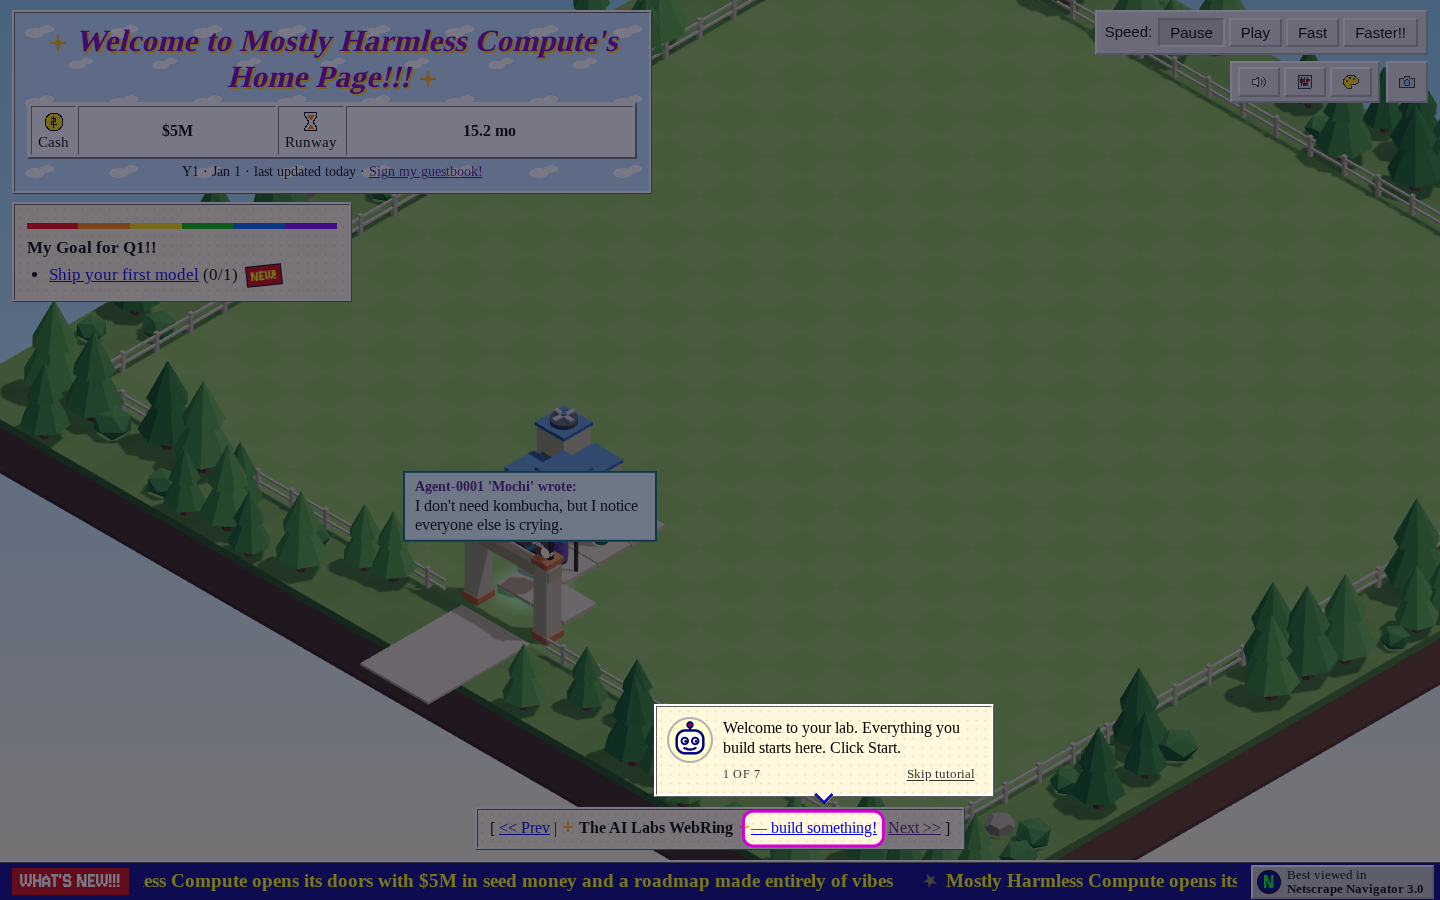
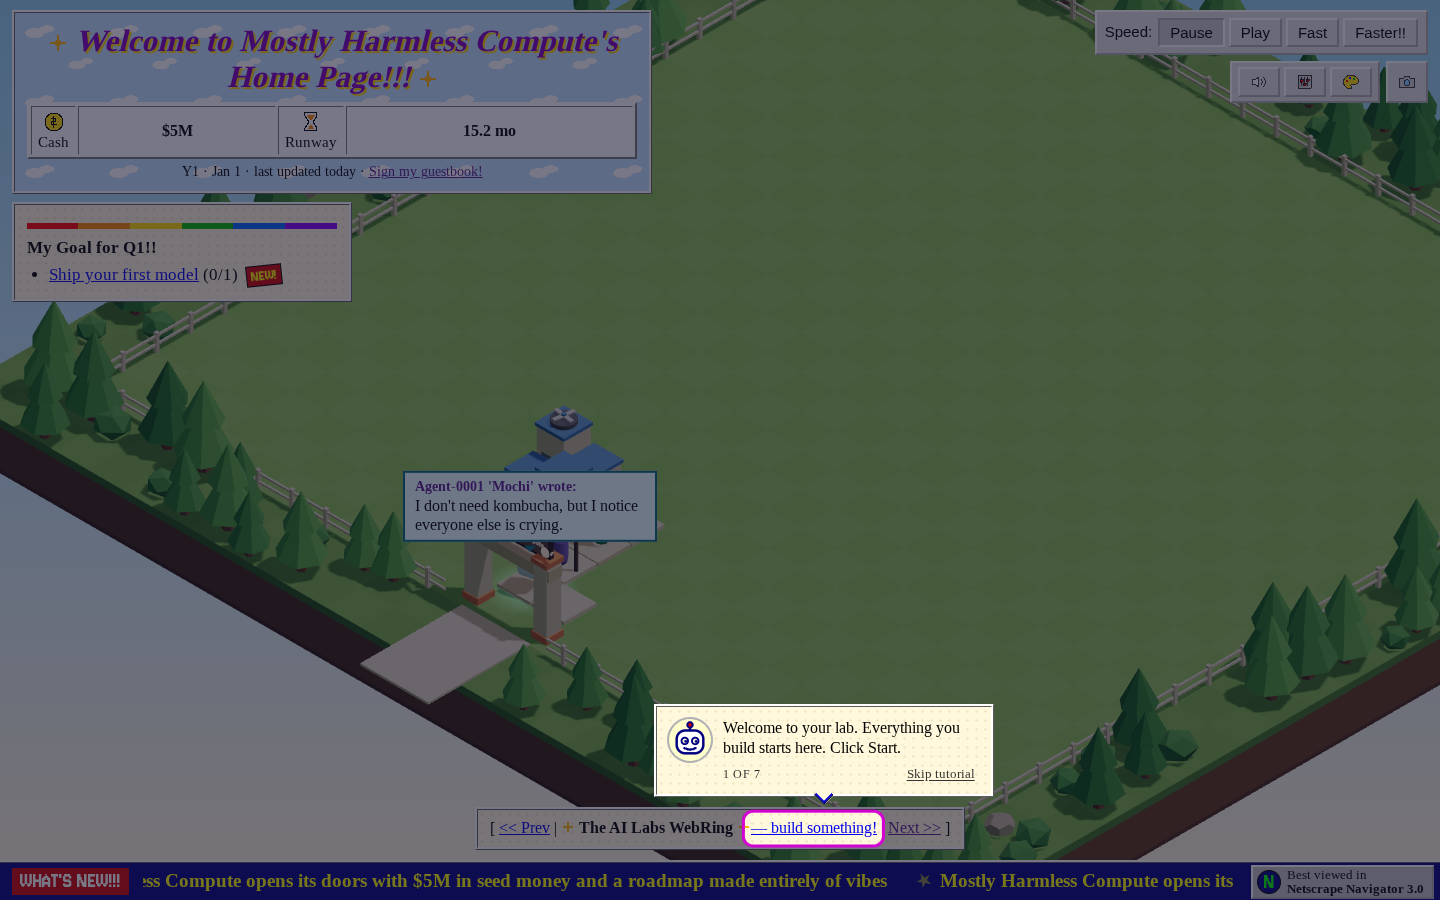
FLT-50: phone coach sits straight above its target, number keys only pick unlocked tools, one box for the one goal in Discovery Disc, WebRing link on a phone; spec and final evidence

Changed region(s): [[0.0938, 0.9644, 0.875, 0.9956]]

diff --git a/src/skins/frontier-95/messages.tsx b/src/skins/frontier-95/messages.tsx
@@ -226,11 +226,11 @@ export function Coach({ coach, anchor, panel, layout, actions }: SlotPropsMap["C
     if (b && (Math.abs(b.width - size.w) > 1 || Math.abs(b.height - size.h) > 1)) setSize({ w: b.width, h: b.height });
   }, [coach.id, layout.width, layout.height, size.w, size.h]);
   // The taskbar is 42px, and the news strip and the top windows are not to be covered either.
-  const place = layout.compact ? null : placeBalloon(anchor, size, { w: layout.width, h: layout.height }, { gap: 18, panel, margin: { top: 12, bottom: 52, left: 10, right: 10 } });
-  // On a phone the balloon docks away from its target: at the bottom only for something in the top of the screen.
-  const dock = anchor && anchor.y < layout.height * 0.3 ? "bottom" : "top";
+  const view = { w: layout.width, h: layout.height };
+  // On a phone it spans the screen, straight above the target (or below it, for something at the top).
+  const place = layout.compact ? placeBalloon(anchor, size, view, { gap: 12, panel, prefer: ["top", "bottom"], margin: { top: 52, bottom: 8, left: 4, right: 4 } }) : placeBalloon(anchor, size, view, { gap: 18, panel, margin: { top: 12, bottom: 52, left: 10, right: 10 } });
   return (
-    <div key={coach.id} ref={ref} className={`f95-coach ${layout.compact ? `docked dock-${dock}` : ""}`} style={place ? { left: place.x, top: place.y } : undefined} role="status" aria-live="polite" aria-label={t("assistant.title")}>
+    <div key={coach.id} ref={ref} className={`f95-coach ${layout.compact ? "docked" : ""}`} style={layout.compact ? { top: place.y } : { left: place.x, top: place.y }} role="status" aria-live="polite" aria-label={t("assistant.title")}>
       <div className="f95-balloon">
         <p className="f95-saying">{coach.text}</p>
         <div className="f95-coachfoot">

diff --git a/src/skins/base/slots/Coach.tsx b/src/skins/base/slots/Coach.tsx
@@ -32,15 +32,14 @@ export function Coach({ coach, anchor, panel, layout, actions }: SlotPropsMap["C
     const b = ref.current?.getBoundingClientRect();
     if (b && (Math.abs(b.width - size.w) > 1 || Math.abs(b.height - size.h) > 1)) setSize({ w: b.width, h: b.height });
   }, [coach.id, layout.width, layout.height, size.w, size.h]);
-  const place = layout.compact ? null : placeBalloon(anchor, size, { w: layout.width, h: layout.height }, { gap: 20, panel, margin: { top: 76, bottom: 48, left: 12, right: 12 } });
-  // On a phone the balloon docks away from its target: at the bottom only for something in the top of the screen.
-  const dock = anchor && anchor.y < layout.height * 0.3 ? "bottom" : "top";
+  const view = { w: layout.width, h: layout.height };
+  const place = layout.compact ? placeBalloon(anchor, size, view, { gap: 12, panel, prefer: ["top", "bottom"], margin: { top: 56, bottom: 8, left: 8, right: 8 } }) : placeBalloon(anchor, size, view, { gap: 20, panel, margin: { top: 76, bottom: 48, left: 12, right: 12 } });
   return (
     <aside
       key={coach.id}
       ref={ref}
-      className={`coach panel ${layout.compact ? `docked dock-${dock}` : ""} ${place ? `side-${place.side}` : ""}`}
-      style={place ? { left: place.x, top: place.y } : undefined}
+      className={`coach panel ${layout.compact ? "docked" : ""} ${place ? `side-${place.side}` : ""}`}
+      style={layout.compact ? { top: place.y } : { left: place.x, top: place.y }}
       role="status"
       aria-live="polite"
       aria-label={t("assistant.title")}

diff --git a/src/ui/hud/useHudEffects.ts b/src/ui/hud/useHudEffects.ts
@@ -23,6 +23,9 @@ const desk = new NewsDesk();
 /** Build hotkeys (1-9, Space, Esc), and the keys that answer whichever card is up. */
 function useHotkeys(vm: HudVM) {
   const eraOpenedAt = useRef(0);
+  // Only the tools the lab has unlocked answer a number key (the build panel lists exactly these).
+  const earned = useRef<ReadonlySet<string>>(new Set());
+  earned.current = new Set(vm.buildItems.map((b) => b.kind));
   const eraN = vm.eraCard?.n ?? null;
   useEffect(() => {
     if (eraN !== null) eraOpenedAt.current = performance.now();
@@ -56,7 +59,10 @@ function useHotkeys(vm: HudVM) {
         (document.activeElement as HTMLElement | null)?.blur?.();
         send({ type: "TOGGLE_PAUSE" });
       } else if (e.key === "Escape") send({ type: "SET_TOOL", tool: null });
-      else if (/^[1-9]$/.test(e.key)) send({ type: "SET_TOOL", tool: TOOLS[Number(e.key) - 1]! });
+      else if (/^[1-9]$/.test(e.key)) {
+        const tool = TOOLS[Number(e.key) - 1]!;
+        if (earned.current.has(tool)) send({ type: "SET_TOOL", tool });
+      }
     };
     window.addEventListener("keydown", onKey);
     return () => window.removeEventListener("keydown", onKey);

diff --git a/src/skins/homepage-98/skin.css b/src/skins/homepage-98/skin.css
@@ -1785,9 +1785,29 @@
     }
     .gc-nav {
       display: contents;
-      .br,
-      .mid {
+      .br {
         display: none;
+      }
+      /* Between the two arrows: the link that opens the ring (the coach's first target). The rest of the line has no room. */
+      .mid {
+        grid-column: 2;
+        grid-row: 1;
+        display: flex;
+        justify-content: center;
+        font-size: 0;
+        .gc-ringname {
+          display: none;
+        }
+        .gc-build {
+          font-size: 16px;
+          padding: 10px 12px;
+          border: 2px outset #fff;
+          background: #e0e0e0;
+          text-decoration: none;
+          color: #000080;
+          font-weight: 700;
+          text-align: center;
+        }
       }
       .prev,
       .next {

diff --git a/src/skins/discovery-disc-96/chart.tsx b/src/skins/discovery-disc-96/chart.tsx
@@ -56,12 +56,11 @@ export function Objectives({ objectives, progress, visible = ALL_VISIBLE, layout
     // The one goal in front of you: a single star, until the race brings the chart.
     return (
       <section className="dd-goals dd-goal-one open" {...coach.attrs("goals")} role="status">
-        <div className="dd-goals-head">
-          <StarIcon on={false} size={26} />
-          <h4>{t("objectives.goal")}</h4>
-        </div>
         <div className="dd-goal-body">
           <div className="dd-goal-text">
+            <small>
+              <StarIcon on={false} size={20} /> {t("objectives.goal")}
+            </small>
             <b>{goal.line}</b>
             <StripeBar value={goal.ratio} label={goal.text} />
           </div>

diff --git a/src/skins/discovery-disc-96/skin.css b/src/skins/discovery-disc-96/skin.css
@@ -1184,6 +1184,22 @@
     background-position: 0 0, 13px 19px;
     box-shadow: 5px 5px 0 var(--dd-ink);
   }
+  .dd-goal-one .dd-goal-text {
+    display: grid;
+    gap: 4px;
+    small {
+      display: flex;
+      align-items: center;
+      gap: 6px;
+      font-family: var(--dd-display);
+      font-size: 15px;
+      letter-spacing: 0.04em;
+      text-transform: uppercase;
+    }
+    b {
+      font-size: 17px;
+    }
+  }
   .dd-tray.closed {
     padding: 8px 14px;
     .dd-tray-label {

diff --git a/src/skins/frontier-95/skin.css b/src/skins/frontier-95/skin.css
@@ -1468,12 +1468,6 @@
         width: auto;
         min-width: 0;
       }
-      &.dock-bottom {
-        bottom: calc(var(--taskbar) + 30px + 52px);
-      }
-      &.dock-top {
-        top: 52px;
-      }
     }
   }
 

diff --git a/src/skins/base/playable.css b/src/skins/base/playable.css
@@ -431,12 +431,6 @@
     right: 8px;
     width: auto;
   }
-  .coach.docked.dock-bottom {
-    bottom: 132px;
-  }
-  .coach.docked.dock-top {
-    top: 96px;
-  }
   .coach.docked::after {
     display: none;
   }

diff --git a/docs/specs/FLT-50.md b/docs/specs/FLT-50.md
@@ -1,0 +1,48 @@
+# FLT-50: Playable v1 UI: coach marks (paperclip), Start build panel + teasers, New! cards, hidden HUD, Help ▸ How to play
+
+**Playable v1: UI** (Sonnet 5.5). The parent is FLT-47. Read the plan comment on FLT-47 (the mockups are attached there) and **the contract below**. Branch from `origin/flt-47-playable` (it contains your FLT-29 work) and open the PR into `flt-47-playable`.
+
+1. **Coach marks:**
+   - A dimmed overlay with a spotlight on `[data-coach="<coach.target>"]`, plus the balloon with the approved line, "N of 7" and **Skip tutorial**.
+   - This goes through a new `Coach` slot: the **paperclip** in Frontier 95, the base balloon in other skins.
+   - No Continue button except on `timer` lines (optional "Got it").
+   - **Replace** FLT-29's old tutorial UI (the Next buttons).
+   - Start ▸ Help ▸ **Replay tutorial**.
+2. **Build panel:** building choices live in a panel you open (the Start menu in Frontier 95, and a single "Build" button plus panel in the base skin). Show **only unlocked items**, then **locked teasers** ("🔒 ??? · ship your first model") from `progress.teasers`. Every item carries `data-coach="build:<kind>"`.
+3. **"New!" unlock cards** from `unlockCard`: small and celebratory, RCT news-style (Frontier 95: a message box "New items available!" listing the items). `dismissUnlock` closes it.
+4. **Hide HUD windows until unlocked** using `hud.visible` (Arena, AI R&D, Thoughts, News Room, Staff, papers, disasters, events). Level 1 shows only cash, runway, date, speed, the training bar (once running), goals and the ticker.
+5. **Goals:** a single clear line from `progress.goal` ("Ship your first model · 0/1"), with `data-coach="goals"`.
+6. **Help ▸ How to play:** one window (Frontier 95 Win95 Help; the base skin's own), covering the loop in 5 bullets, one line per unlocked building, and what cash/runway/Vibes/hype mean. Plain, warm copy with no jokes in instructions (the jokes live in the world). Put the text in `content/help.ts`.
+7. **Every skin needs `data-coach` hooks.** Add them to the merged ported skins' custom slots (Discovery Disc '96, Homepage '98). The Swag Drop, Karaoke Night and Field Almanac port builders are adding them in their own PRs.
+8. **Evidence:** `pnpm shots` before/after of steps 1–5 in Frontier 95 plus the base skin, and phone. Follow the mockups on FLT-47.
+## Playable v1: the shared contract (FLT-49 logic ↔ FLT-50 UI)
+
+**Branches:** both builders branch from **`origin/flt-47-playable`** and open PRs **into `flt-47-playable`** (not `main`). The lead merges them there. PR #37 (`flt-47-playable` → `main`) is the preview Jem plays, and **it must not merge until the stranger test passes on its preview and Jem OKs it.**
+
+**Approved by Jem:** the ladder and the 7 coach lines in the plan comment on FLT-47. **Level 1 starts with a Compute Cluster pre-built; the player builds the Path and the Training Hall.** Use the copy exactly as approved (in `content/coach.ts`). Don't edit wording without the lead.
+
+### Snapshot / HUD view-model additions (logic produces, UI consumes)
+```ts
+progress: {
+  level: 1|2|3|4|5, levelName: string,            // "Garage", "Open for business", "Growing team", "The Race", "Scrutiny"
+  unlocked: { buildings: BuildingKind[], staff: StaffJob[], systems: SystemId[] },
+  goal: { text: string, current: number, target: number },   // e.g. "Ship your first model", 0, 1
+  teasers: { label: string, hint: string }[],     // locked items for the build panel: "???", "ship your first model"
+}
+coach: {                                          // null when there's no active coach mark / skipped / finished
+  id: string, step: number, of: number, text: string,  // the approved line
+  target: CoachTarget,                            // DOM: [data-coach="<target>"]; map targets below
+  waitFor: "action" | "timer", canSkip: true,
+  suggest?: { kind: "path", tiles: [x,z][] } | { kind: "building", building: BuildingKind, x: number, z: number },
+} | null
+unlockCard: { id: string, title: string, body: string, items: string[] } | null   // the "New!" card
+hud: { visible: Record<HudPanel, boolean> }       // HudPanel = "revenue"|"vibes"|"arena"|"rnd"|"thoughts"|"news"|"staff"|"events"|"papers"|"disasters"
+```
+- **Commands:** `coachSkip`, `coachReplay`, `dismissUnlock`.
+- **CoachTarget ids:** `start` (build panel button), `build:path`, `build:hall`, `training`, `build:gateway`, `stat:runway`, `goals`, plus `map:suggest` (the 3D ghost suggestion).
+- **Time:** the game starts paused at 1×. The first build click starts it. **Coach marks never pause time.** `waitFor: "timer"` lines auto-advance after about 6 s of game-visible time or on any click.
+
+### Hooks for the stranger test (both builders)
+- Every coach target element carries `data-coach="<id>"`, and the active one also has `data-coach-active`. This applies in **every skin** (base, Frontier 95, and every ported skin's custom slots).
+- The 3D ghost suggestion renders DOM anchors at each suggested tile's projected screen position: `[data-coach-tile="x,z"]` (clickable, which places the suggested thing).
+- A **read-only** probe, `window.__fltProbe()`, returns `{date, day, paused, speed, walkers:[{id,kind,x,z,mode}], gate:{x,z}, coachId}`. It's always present, has no side effects, and needs no URL param.

diff --git a/docs/evidence/FLT-50/discovery-disc-96/report.md b/docs/evidence/FLT-50/discovery-disc-96/report.md
@@ -1,10 +1,10 @@
 
-| Scene | Before (`main` @ deb7d60) | After (`flt-50-playable-ui` @ 8bba4a0+) |
-|---|---|---|
-| **coach-start** (discovery-disc-96)<br>93.3% px differ | ![coach-start@discovery-disc-96](https://github.com/jem-computer/frontier-lab-tycoon/blob/flt-50-playable-ui/docs/evidence/FLT-50/discovery-disc-96/before/coach-start@discovery-disc-96.png?raw=true) | ![coach-start@discovery-disc-96](https://github.com/jem-computer/frontier-lab-tycoon/blob/flt-50-playable-ui/docs/evidence/FLT-50/discovery-disc-96/after/coach-start@discovery-disc-96.png?raw=true) |
-| **coach-path** (discovery-disc-96)<br>93.1% px differ | ![coach-path@discovery-disc-96](https://github.com/jem-computer/frontier-lab-tycoon/blob/flt-50-playable-ui/docs/evidence/FLT-50/discovery-disc-96/before/coach-path@discovery-disc-96.png?raw=true) | ![coach-path@discovery-disc-96](https://github.com/jem-computer/frontier-lab-tycoon/blob/flt-50-playable-ui/docs/evidence/FLT-50/discovery-disc-96/after/coach-path@discovery-disc-96.png?raw=true) |
-| **coach-hall** (discovery-disc-96)<br>93.6% px differ | ![coach-hall@discovery-disc-96](https://github.com/jem-computer/frontier-lab-tycoon/blob/flt-50-playable-ui/docs/evidence/FLT-50/discovery-disc-96/before/coach-hall@discovery-disc-96.png?raw=true) | ![coach-hall@discovery-disc-96](https://github.com/jem-computer/frontier-lab-tycoon/blob/flt-50-playable-ui/docs/evidence/FLT-50/discovery-disc-96/after/coach-hall@discovery-disc-96.png?raw=true) |
-| **level-3** (discovery-disc-96)<br>34.2% px differ | ![level-3@discovery-disc-96](https://github.com/jem-computer/frontier-lab-tycoon/blob/flt-50-playable-ui/docs/evidence/FLT-50/discovery-disc-96/before/level-3@discovery-disc-96.png?raw=true) | ![level-3@discovery-disc-96](https://github.com/jem-computer/frontier-lab-tycoon/blob/flt-50-playable-ui/docs/evidence/FLT-50/discovery-disc-96/after/level-3@discovery-disc-96.png?raw=true) |
-| **phone-start** (discovery-disc-96)<br>86.4% px differ | ![phone-start@discovery-disc-96](https://github.com/jem-computer/frontier-lab-tycoon/blob/flt-50-playable-ui/docs/evidence/FLT-50/discovery-disc-96/before/phone-start@discovery-disc-96.png?raw=true) | ![phone-start@discovery-disc-96](https://github.com/jem-computer/frontier-lab-tycoon/blob/flt-50-playable-ui/docs/evidence/FLT-50/discovery-disc-96/after/phone-start@discovery-disc-96.png?raw=true) |
+| Scene | After (`flt-50-playable-ui` @ 54fd5fa+) |
+|---|---|
+| **coach-start** (discovery-disc-96) | ![coach-start@discovery-disc-96](https://github.com/jem-computer/frontier-lab-tycoon/blob/flt-50-playable-ui/docs/evidence/FLT-50/discovery-disc-96/after/coach-start@discovery-disc-96.png?raw=true) |
+| **coach-path** (discovery-disc-96) | ![coach-path@discovery-disc-96](https://github.com/jem-computer/frontier-lab-tycoon/blob/flt-50-playable-ui/docs/evidence/FLT-50/discovery-disc-96/after/coach-path@discovery-disc-96.png?raw=true) |
+| **level-3** (discovery-disc-96) | ![level-3@discovery-disc-96](https://github.com/jem-computer/frontier-lab-tycoon/blob/flt-50-playable-ui/docs/evidence/FLT-50/discovery-disc-96/after/level-3@discovery-disc-96.png?raw=true) |
+| **phone-start** (discovery-disc-96) | ![phone-start@discovery-disc-96](https://github.com/jem-computer/frontier-lab-tycoon/blob/flt-50-playable-ui/docs/evidence/FLT-50/discovery-disc-96/after/phone-start@discovery-disc-96.png?raw=true) |
+| **phone-path** (discovery-disc-96) | ![phone-path@discovery-disc-96](https://github.com/jem-computer/frontier-lab-tycoon/blob/flt-50-playable-ui/docs/evidence/FLT-50/discovery-disc-96/after/phone-path@discovery-disc-96.png?raw=true) |
 
-_pnpm shots: 5 scene(s), 1 skin(s) in 103.8s (10/10 captures ok)._
+_pnpm shots: 5 scene(s), 1 skin(s) in 48.0s (5/5 captures ok)._

diff --git a/docs/evidence/FLT-50/homepage-98/report.md b/docs/evidence/FLT-50/homepage-98/report.md
@@ -1,10 +1,10 @@
 
-| Scene | Before (`main` @ deb7d60) | After (`flt-50-playable-ui` @ 8bba4a0+) |
-|---|---|---|
-| **coach-start** (homepage-98)<br>96.7% px differ | ![coach-start@homepage-98](https://github.com/jem-computer/frontier-lab-tycoon/blob/flt-50-playable-ui/docs/evidence/FLT-50/homepage-98/before/coach-start@homepage-98.png?raw=true) | ![coach-start@homepage-98](https://github.com/jem-computer/frontier-lab-tycoon/blob/flt-50-playable-ui/docs/evidence/FLT-50/homepage-98/after/coach-start@homepage-98.png?raw=true) |
-| **coach-path** (homepage-98)<br>96.4% px differ | ![coach-path@homepage-98](https://github.com/jem-computer/frontier-lab-tycoon/blob/flt-50-playable-ui/docs/evidence/FLT-50/homepage-98/before/coach-path@homepage-98.png?raw=true) | ![coach-path@homepage-98](https://github.com/jem-computer/frontier-lab-tycoon/blob/flt-50-playable-ui/docs/evidence/FLT-50/homepage-98/after/coach-path@homepage-98.png?raw=true) |
-| **coach-hall** (homepage-98)<br>97.6% px differ | ![coach-hall@homepage-98](https://github.com/jem-computer/frontier-lab-tycoon/blob/flt-50-playable-ui/docs/evidence/FLT-50/homepage-98/before/coach-hall@homepage-98.png?raw=true) | ![coach-hall@homepage-98](https://github.com/jem-computer/frontier-lab-tycoon/blob/flt-50-playable-ui/docs/evidence/FLT-50/homepage-98/after/coach-hall@homepage-98.png?raw=true) |
-| **level-3** (homepage-98)<br>43.2% px differ | ![level-3@homepage-98](https://github.com/jem-computer/frontier-lab-tycoon/blob/flt-50-playable-ui/docs/evidence/FLT-50/homepage-98/before/level-3@homepage-98.png?raw=true) | ![level-3@homepage-98](https://github.com/jem-computer/frontier-lab-tycoon/blob/flt-50-playable-ui/docs/evidence/FLT-50/homepage-98/after/level-3@homepage-98.png?raw=true) |
-| **phone-start** (homepage-98)<br>45.7% px differ | ![phone-start@homepage-98](https://github.com/jem-computer/frontier-lab-tycoon/blob/flt-50-playable-ui/docs/evidence/FLT-50/homepage-98/before/phone-start@homepage-98.png?raw=true) | ![phone-start@homepage-98](https://github.com/jem-computer/frontier-lab-tycoon/blob/flt-50-playable-ui/docs/evidence/FLT-50/homepage-98/after/phone-start@homepage-98.png?raw=true) |
+| Scene | After (`flt-50-playable-ui` @ 54fd5fa+) |
+|---|---|
+| **coach-start** (homepage-98) | ![coach-start@homepage-98](https://github.com/jem-computer/frontier-lab-tycoon/blob/flt-50-playable-ui/docs/evidence/FLT-50/homepage-98/after/coach-start@homepage-98.png?raw=true) |
+| **coach-path** (homepage-98) | ![coach-path@homepage-98](https://github.com/jem-computer/frontier-lab-tycoon/blob/flt-50-playable-ui/docs/evidence/FLT-50/homepage-98/after/coach-path@homepage-98.png?raw=true) |
+| **level-3** (homepage-98) | ![level-3@homepage-98](https://github.com/jem-computer/frontier-lab-tycoon/blob/flt-50-playable-ui/docs/evidence/FLT-50/homepage-98/after/level-3@homepage-98.png?raw=true) |
+| **phone-start** (homepage-98) | ![phone-start@homepage-98](https://github.com/jem-computer/frontier-lab-tycoon/blob/flt-50-playable-ui/docs/evidence/FLT-50/homepage-98/after/phone-start@homepage-98.png?raw=true) |
+| **phone-path** (homepage-98) | ![phone-path@homepage-98](https://github.com/jem-computer/frontier-lab-tycoon/blob/flt-50-playable-ui/docs/evidence/FLT-50/homepage-98/after/phone-path@homepage-98.png?raw=true) |
 
-_pnpm shots: 5 scene(s), 1 skin(s) in 90.1s (10/10 captures ok)._
+_pnpm shots: 5 scene(s), 1 skin(s) in 46.0s (5/5 captures ok)._

diff --git a/docs/evidence/FLT-50/frontier-95-phone/report.md b/docs/evidence/FLT-50/frontier-95-phone/report.md
@@ -1,7 +1,7 @@
 
-| Scene | Before (`main` @ deb7d60) | After (`flt-50-playable-ui` @ 8bba4a0+) |
+| Scene | Before (`main` @ deb7d60) | After (`flt-50-playable-ui` @ 54fd5fa+) |
 |---|---|---|
-| **phone-start** (frontier-95)<br>95.2% px differ | ![phone-start@frontier-95](https://github.com/jem-computer/frontier-lab-tycoon/blob/flt-50-playable-ui/docs/evidence/FLT-50/frontier-95-phone/before/phone-start@frontier-95.png?raw=true) | ![phone-start@frontier-95](https://github.com/jem-computer/frontier-lab-tycoon/blob/flt-50-playable-ui/docs/evidence/FLT-50/frontier-95-phone/after/phone-start@frontier-95.png?raw=true) |
-| **phone-path** (frontier-95)<br>92.0% px differ | ![phone-path@frontier-95](https://github.com/jem-computer/frontier-lab-tycoon/blob/flt-50-playable-ui/docs/evidence/FLT-50/frontier-95-phone/before/phone-path@frontier-95.png?raw=true) | ![phone-path@frontier-95](https://github.com/jem-computer/frontier-lab-tycoon/blob/flt-50-playable-ui/docs/evidence/FLT-50/frontier-95-phone/after/phone-path@frontier-95.png?raw=true) |
+| **phone-start** (frontier-95)<br>92.4% px differ | ![phone-start@frontier-95](https://github.com/jem-computer/frontier-lab-tycoon/blob/flt-50-playable-ui/docs/evidence/FLT-50/frontier-95-phone/before/phone-start@frontier-95.png?raw=true) | ![phone-start@frontier-95](https://github.com/jem-computer/frontier-lab-tycoon/blob/flt-50-playable-ui/docs/evidence/FLT-50/frontier-95-phone/after/phone-start@frontier-95.png?raw=true) |
+| **phone-path** (frontier-95)<br>93.7% px differ | ![phone-path@frontier-95](https://github.com/jem-computer/frontier-lab-tycoon/blob/flt-50-playable-ui/docs/evidence/FLT-50/frontier-95-phone/before/phone-path@frontier-95.png?raw=true) | ![phone-path@frontier-95](https://github.com/jem-computer/frontier-lab-tycoon/blob/flt-50-playable-ui/docs/evidence/FLT-50/frontier-95-phone/after/phone-path@frontier-95.png?raw=true) |
 
-_pnpm shots: 2 scene(s), 1 skin(s) in 45.3s (4/4 captures ok)._
+_pnpm shots: 2 scene(s), 1 skin(s) in 41.7s (4/4 captures ok)._
